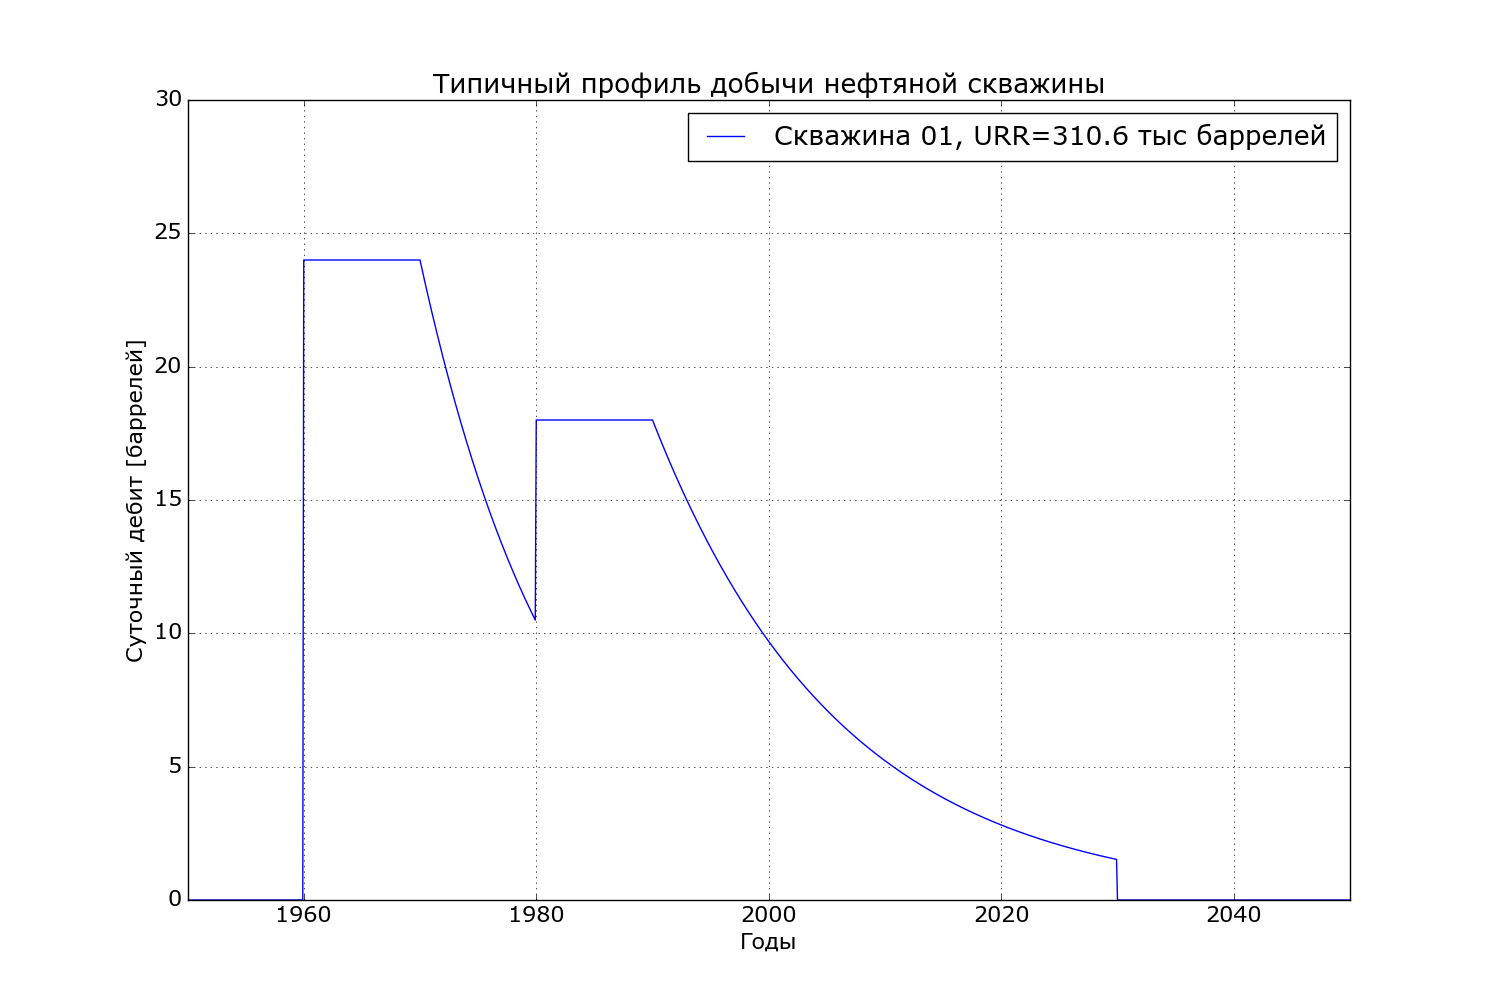
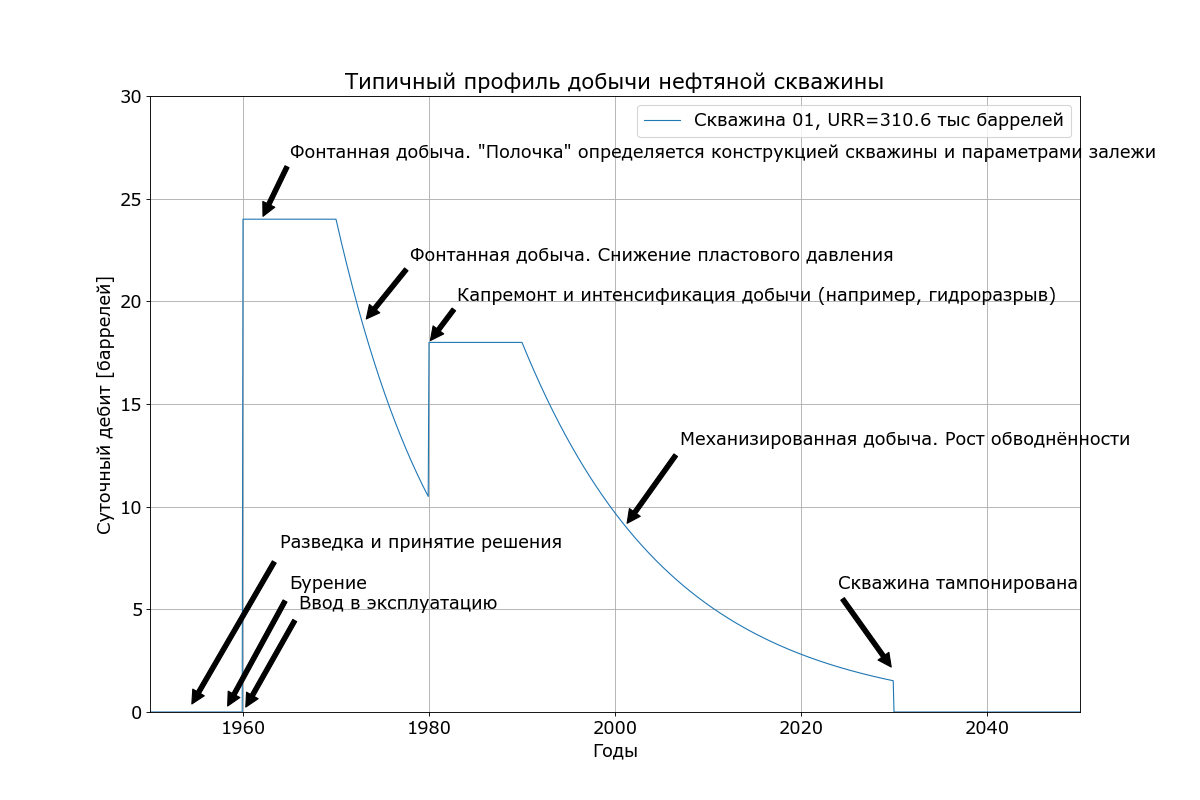
Updated for Matplotlib 2.x

diff --git a/Chapter 08/Test_09_E_Hull_UK_Prediction.py b/Chapter 08/Test_09_E_Hull_UK_Prediction.py
@@ -1,7 +1,7 @@
 from Population import *
 
-Calibration_Year, Calibration_Total = Load_Calibration( "UK_Coal_Production.csv", "Year", "Total")
-Calibration_Total, Calibration_Delta = Load_Calibration( "UK_Coal_Production.csv", "Total", "Delta")
+Calibration_Year, Calibration_Total = Load_Calibration( "./Data/UK_Coal_Production.csv", "Year", "Total")
+Calibration_Total, Calibration_Delta = Load_Calibration( "./Data/UK_Coal_Production.csv", "Total", "Yerr")
 URR0 = np.sum(Calibration_Total)
 dURR = np.sum(Calibration_Delta)
 Prediction_Year = [1830,1860,1880,1900,1920,1940,1960,1980,2000,2020,2034]
@@ -10,21 +10,26 @@ Prediction_Total = [30,72,144,288,576,1152,2304,4608,9216,18432,42979]
 T = np.linspace( 1800, 2100, 301)
 Q1 = Hubbert( 1924,0.043,0.040,280,0).GetVector(T)
 URR1 = np.sum( Q1)
-Q2 = Weibull( total=26500, x0=1810, s=0.0078, k=3.4).GetVector(T)
+Q2 = Weibull( peak=26500, x0=1810, b=0.0078, k=3.4).GetVector(T)
 URR2 = np.sum( Q2)
 
-Prepare_Russian_Font()
 fig = plt.figure( figsize=(15,10))
 plt.plot( Prediction_Year, Prediction_Total, "--", color="r", lw=2, label="Предсказание Эдварда Халла 1861 г: 79'843 млн тонн")
 plt.plot( T, Q1, "-", color="g", lw=2, label="Кривая Хабберта: {:5.0f} млн тонн".format(URR1))
 plt.plot( T, Q2, "-", color="r", lw=2, label="Кривая Вейбулла: {:5.0f} млн тонн".format(URR2))
-plt.errorbar( Calibration_Year, Calibration_Total, yerr=Calibration_Delta, fmt='.', color="b", label="Реальная добыча 1830-2015: {:5.0f} +/- {:5.0f} млн тонн".format(URR0, dURR))
+plt.errorbar( Calibration_Year, Calibration_Total, yerr=Calibration_Delta, fmt='.', color="b", label="Реальная добыча 1830-2016: {:5.0f} +/- {:5.0f} млн тонн".format(URR0, dURR))
 plt.xlabel("Годы")
 plt.xlim( 1800, 2050)
 plt.ylabel("Добыча [миллионов тонн в год]")
 plt.ylim( 0, 600)
 plt.title( "Добыча угля в Великобритании")
 plt.grid(True)
-plt.legend(loc=0)
+plt.legend(loc=2)
+
+plt.annotate("Предсказание Э.Халла, 1861 г", xy=(1861, 75), xytext=(1806,215), arrowprops=dict(facecolor='black', shrink=0.05))
+plt.annotate("Пик добычи 292 млн т в 1913 г", xy=(1913, 292), xytext=(1825,375), arrowprops=dict(facecolor='black', shrink=0.05))
+plt.annotate('Анеурин Беван: "Этот остров стоит на угле и окружён рыбой"', xy=(1945, 186), xytext=(1915,435), arrowprops=dict(facecolor='black', shrink=0.05))
+plt.annotate("Обвал рыболовства в Северном море", xy=(1992, 62), xytext=(1880,65), arrowprops=dict(facecolor='black', shrink=0.05))
+plt.annotate("Прекращена добыча угля", xy=(2016, 2), xytext=(2000,165), arrowprops=dict(facecolor='black', shrink=0.05))
 plt.savefig( ".\\Graphs\\figure_08_09.png")
 fig.show()

diff --git a/Chapter 08/Test_11_Probabilistic_Estimates.py b/Chapter 08/Test_11_Probabilistic_Estimates.py
@@ -1,0 +1,63 @@
+from Population import * 
+
+Time = np.linspace( 1960, 2060, 21)
+T_Report =   [1965, 1970, 1980, 1990, 2000, 2010, 2020, 2030, 2040]
+URR_Proven = [   5,  550, 1120, 1120, 1120, 1190, 1200, 1250, 1250]
+UR_P10 = Sigmoid( 1985, 0.1, 16000, 2200).GetVector( Time)
+UR_P50 = Sigmoid( 1975, 0.5, 3000, 2200).GetVector( Time)
+UR_P90 = Sigmoid( 1973, 0.25, 0, 2200).GetVector( Time)
+TRF_P10 = Sigmoid( 1980, 1.0, 0.65, 0.57).GetVector( Time)
+TRF_P50 = Sigmoid( 1960, 1.0, 0.3,  0.57).GetVector( Time)
+TRF_P90 = Sigmoid( 1965, 1.0, 0.2,  0.57).GetVector( Time)
+URR_P10 = UR_P10 * TRF_P10
+URR_P50 = UR_P50 * TRF_P50
+URR_P90 = UR_P90 * TRF_P90
+ERF_P10 = Sigmoid( 2015, 0.1, 0.65, 0.95).GetVector( Time)
+ERF_P50 = Sigmoid( 2005, 0.5, 0.50,  0.95).GetVector( Time)
+ERF_P90 = Sigmoid( 2010, 0.2, 0.25,  0.95).GetVector( Time)
+ERR_P10 = URR_P10 * ERF_P10
+ERR_P50 = URR_P50 * ERF_P50
+ERR_P90 = URR_P90 * ERF_P90
+
+fig = plt.figure( figsize=(15,15))
+fig.suptitle( 'Вероятностные оценки запасов месторождения Весёлое', fontsize=22)
+gs = plt.GridSpec(3, 1, height_ratios=[1, 1, 1]) 
+ax1 = plt.subplot(gs[0])
+ax2 = plt.subplot(gs[1])
+ax3 = plt.subplot(gs[2])
+
+ax1.set_title( "Начальные геологические запасы")
+ax1.plot( Time, UR_P10, "--", lw=2, color="g", label="P-10/3P (возможные)")
+ax1.plot( Time[1:], UR_P50[1:], "-", lw=3, color="g", label="P-50/2P (вероятные)")
+ax1.plot( Time, UR_P90, "-.", lw=2, color="g", label="P-90/1P (подтверждённые)")
+ax1.grid(True)
+ax1.set_ylabel("млн баррелей")
+ax1.set_xlim( 1960, 2060)
+ax1.set_ylim( 0, 15000)
+ax1.legend(loc=0)
+
+ax2.set_title( "Начальные технически - извлекаемые запасы")
+ax2.plot( Time, URR_P10, "--", lw=2, color="b", label="P-10/3P (возможные)")
+ax2.plot( Time[1:], URR_P50[1:], "-", lw=3, color="b", label="P-50/2P (вероятные)")
+ax2.plot( Time, URR_P90, "-.", lw=2, color="b", label="P-90/1P (подтверждённые)")
+ax2.errorbar( T_Report, URR_Proven, fmt="o", color="m", label="Отчёты SEC/USGS")
+ax2.set_ylabel("млн баррелей")
+ax2.set_xlim( 1960, 2060)
+ax2.set_ylim( 0, 10000)
+ax2.grid(True)
+ax2.legend(loc=0)
+
+ax3.set_title( "Начальные экономически - извлекаемые запасы")
+ax3.plot( Time, ERR_P10, "--", lw=2, color="r", label="P-10/3P (возможные)")
+ax3.plot( Time[1:], ERR_P50[1:], "-", lw=3, color="r", label="P-50/2P (вероятные)")
+ax3.plot( Time, ERR_P90, "-.", lw=2, color="r", label="P-90/1P (подтверждённые)")
+ax3.set_ylabel("млн баррелей")
+ax3.set_xlabel("Годы")
+ax3.set_xlim( 1960, 2060)
+ax3.set_ylim( 0, 7000)
+ax3.grid(True)
+ax3.legend(loc=0)
+
+plt.savefig( ".\\Graphs\\figure_08_11.png")
+fig.show()
+

diff --git a/Chapter 08/Test_10_Hubbert.py b/Chapter 08/Test_10_Hubbert.py
@@ -66,8 +66,8 @@ class Resource_Weibull:
         self.Solution_Q *= norm
         return self.Solution_Q
 
-T_Cal, Coal_Cal = Load_Calibration( "Resources_Calibration.csv", "Year", "Coal")
-Oil_Cal, Gas_Cal = Load_Calibration( "Resources_Calibration.csv", "Oil", "Gas")
+T_Cal, Coal_Cal = Load_Calibration( "Energy_Calibration.csv", "Year", "Coal")
+Oil_Cal, Gas_Cal = Load_Calibration( "Energy_Calibration.csv", "Oil", "Gas")
 Oil_Cal += Coal_Cal
 Gas_Cal += Oil_Cal
 
@@ -82,10 +82,7 @@ Q2_Data = Q2.Solve( T)
 Q3 = Resource_Weibull()
 Q3_Data = Q3.Solve( T)
 
-Prepare_Russian_Font()
 fig = plt.figure( figsize=(15,10))
-#ax = plt.subplot()
-#ax.set_yscale("log", nonposx='clip')
 plt.plot( T, Q0_Data, "-", lw=1, color="r", label="Симметричная кривая Хабберта URR=1.20")
 plt.plot( T, Q3_Data, "-", lw=1, color="g", label="Kривая Вейбулла URR=1.20")
 plt.plot( T, Q1_Data, "-", lw=1, color="b", label="Kривая Гаусса URR=1.20")
@@ -93,11 +90,10 @@ plt.plot( T, Q2_Data, "--", lw=1, color="b", label="Kривая Капицы URR
 plt.errorbar( T_Cal, Coal_Cal, yerr=Coal_Cal*0.01, fmt='.', color="black", label="Кам. уголь (включая торф)")
 plt.errorbar( T_Cal, Oil_Cal, yerr=Oil_Cal*0.01, fmt='.', color="g", label="+ Нефть (включая битум и жидкости)")
 plt.errorbar( T_Cal, Gas_Cal, yerr=Gas_Cal*0.01, fmt='.', color="r", label="+ Природный газ")
-#plt.errorbar( P0.Calibration_Year, P0.Calibration_Total, yerr=P0.Calibration_Delta, fmt='o', color="b", label="Население (статистика ООН)")
 plt.xlabel("Годы")
 plt.xlim( 1800, 2100)
-plt.ylabel("Добыча [миллионов ТУТ в год]")
-#plt.ylim( 0, 20000)
+plt.ylabel("Добыча [миллионов toe в год]")
+plt.ylim( 0, 13000)
 plt.title( 'Аппроксимация мировой добычи углеводородного топлива')
 plt.grid(True)
 plt.legend(loc=0)

diff --git a/Chapter 08/Test_01_Well.py b/Chapter 08/Test_01_Well.py
@@ -30,7 +30,6 @@ T  = np.linspace( 1950, 2050, 1201)
 
 w1 = Well( T, 24, 0.08, 18, 0.06, [1960,1970,1980,1990,2030])
 
-Prepare_Russian_Font()
 fig = plt.figure( figsize=(15,10))
 plt.plot( T, w1.Production, "-", lw=1, label="Скважина 01, URR={:5.1f} тыс баррелей".format( w1.URR))
 plt.xlabel("Годы")
@@ -40,5 +39,13 @@ plt.ylim( 0, 30)
 plt.title( "Типичный профиль добычи нефтяной скважины")
 plt.grid(True)
 plt.legend(loc=0)
+plt.annotate("Разведка и принятие решения", xy=(1954,0), xytext=(1964,8), arrowprops=dict(facecolor='black', shrink=0.05))
+plt.annotate("Бурение", xy=(1958,0), xytext=(1965,6), arrowprops=dict(facecolor='black', shrink=0.05))
+plt.annotate("Ввод в эксплуатацию", xy=(1960,0), xytext=(1966,5), arrowprops=dict(facecolor='black', shrink=0.05))
+plt.annotate('Фонтанная добыча. "Полочка" определяется конструкцией скважины и параметрами залежи', xy=(1962,24), xytext=(1965,27), arrowprops=dict(facecolor='black', shrink=0.05))
+plt.annotate("Фонтанная добыча. Снижение пластового давления", xy=(1973,19), xytext=(1978,22), arrowprops=dict(facecolor='black', shrink=0.05))
+plt.annotate("Капремонт и интенсификация добычи (например, гидроразрыв)", xy=(1980,18), xytext=(1983,20), arrowprops=dict(facecolor='black', shrink=0.05))
+plt.annotate("Механизированная добыча. Рост обводнённости", xy=(2001,9), xytext=(2007,13), arrowprops=dict(facecolor='black', shrink=0.05))
+plt.annotate("Скважина тампонирована", xy=(2030,2), xytext=(2024,6), arrowprops=dict(facecolor='black', shrink=0.05))
 plt.savefig( ".\\Graphs\\figure_08_01.png")
 fig.show()

diff --git a/Chapter 08/Test_08_Creaming.py b/Chapter 08/Test_08_Creaming.py
@@ -58,7 +58,7 @@ for i in range( len( wt)):
     if i > 70: wt[i] += 5
 f = Field( wt, T, 865, 0.10, 800, 0.08, t)
 
-WB = Weibull( x0=1970, total=1200/12, s=0.022, k=1.5)
+WB = Weibull( x0=1970, peak=1200/12, b=0.022, k=1.5)
 WB_Data = WB.GetVector( T)
 WB_URR = np.sum( WB_Data)
 WB_Cumulative = np.array( WB_Data)
@@ -74,10 +74,9 @@ Remaining = Creaming - f.Cumulative/12e6*365.25
 NWells1 = np.linspace( 1,300,301)
 Creaming_Approx = 5 + 280*np.log(NWells1)
 
-Prepare_Russian_Font()
 fig = plt.figure( figsize=(15,10))
 plt.plot( NWells1, Creaming_Approx, "--", color="b", lw=2, label="Аппроксимация -- запасы растут бесконечно")
-plt.errorbar( NWells, URR_Proven, fmt='o', color="b", label="SEC начальные подтверждённые [млн баррелей]")
+plt.errorbar( NWells, URR_Proven, fmt='o', color="b", label="SEC начальные извлекаемые [млн баррелей]")
 plt.xlabel("Количество пробуренных скважин (включая разведочные)")
 plt.xlim( 0, 300)
 plt.ylabel("миллионов баррелей")
@@ -85,5 +84,6 @@ plt.ylim( 0, 2000)
 plt.title( "Месторождение Весёлое - кривая снятия сливок")
 plt.grid(True)
 plt.legend(loc=0)
+plt.annotate("Здесь две точки - из отчётов 2030 и 2040 годов!", xy=(85,1250), xytext=(115,885), arrowprops=dict(facecolor='black', shrink=0.05))
 plt.savefig( ".\\Graphs\\figure_08_08.png")
 fig.show()

diff --git a/Chapter 08/Test_07_Creaming.py b/Chapter 08/Test_07_Creaming.py
@@ -58,7 +58,7 @@ for i in range( len( wt)):
     if i > 70: wt[i] += 5
 f = Field( wt, T, 865, 0.10, 800, 0.08, t)
 
-WB = Weibull( x0=1970, total=1200/12, s=0.022, k=1.5)
+WB = Weibull( x0=1970, peak=1200/12, b=0.022, k=1.5)
 WB_Data = WB.GetVector( T)
 WB_URR = np.sum( WB_Data)
 WB_Cumulative = np.array( WB_Data)
@@ -72,13 +72,12 @@ NWells =     [   1,    6,   51,   53,   60,   70,   80,   85,   85]
 Creaming = Sigmoid( 1965, 0.1, -1250, 1250).GetVector( T)
 Remaining = Creaming - f.Cumulative/12e6*365.25
 
-Prepare_Russian_Font()
 fig = plt.figure( figsize=(15,10))
 plt.plot( T, f.Cumulative/12e6*365.25, "-", color="g", lw=3, label="Накопленная добыча (реальная), URR={:7.1f} млн баррелей".format( f.URR))
 plt.plot( T, WB_Cumulative, "--", color="g", lw=2, label="Накопленная добыча (Вейбулл), URR={:7.1f} млн баррелей".format( WB_URR))
 plt.plot( T, Creaming, "--", color="b", lw=1, label="Аппроксимация подтверждённых запасов")
 plt.plot( T, Remaining, "-", color="r", lw=2, label="Остаточные запасы")
-plt.errorbar( T_Report, URR_Proven, fmt='o', color="b", label="SEC начальные подтверждённые [млн баррелей]")
+plt.errorbar( T_Report, URR_Proven, fmt='o', color="b", label="SEC начальные извлекаемые [млн баррелей]")
 plt.xlabel("Годы")
 plt.xlim( 1960, 2100)
 plt.ylabel("миллионов баррелей")

diff --git a/Chapter 08/Test_06_Field.py b/Chapter 08/Test_06_Field.py
@@ -49,12 +49,11 @@ wt = np.ones( 50) * 1970
 for i in range( len( wt)): wt[i] += i * 0.1
 f = Field( wt, T, 800, 0.10, 800, 0.08, t)
 
-WB = Weibull( x0=1970, s=0.033, k=1.7, total=680/12)
+WB = Weibull( x0=1970, b=0.033, k=1.7, peak=680/12)
 WB_Data = WB.GetVector( T)
 WB_URR = np.sum( WB_Data)
 WB_Data *= 12e6/365.25
 
-Prepare_Russian_Font()
 fig = plt.figure( figsize=(15,10))
 plt.plot( T, f.Production, "-", color="g", lw=3, label="Всего с месторождения, URR={:7.1f} млн баррелей".format( f.URR))
 plt.plot( T, WB_Data, "--", color="g", lw=2, label="Аппроксимация Вейбулла, URR={:7.1f} млн баррелей".format( WB_URR))

diff --git a/Chapter 08/Test_02_Well.py b/Chapter 08/Test_02_Well.py
@@ -35,7 +35,6 @@ Total_Production = w1.Production + w2.Production + w3.Production
 Total_URR = w1.URR + w2.URR + w3.URR
 print( Total_Production[719-120])
 
-Prepare_Russian_Font()
 fig = plt.figure( figsize=(15,10))
 plt.plot( T, w1.Production, "-", color="b", lw=1, label="Скважина 01, URR={:5.1f} тыс баррелей".format( w1.URR))
 plt.plot( T, w2.Production, "--", color="b", lw=1, label="Скважина 02, URR={:5.1f} тыс баррелей".format( w2.URR))

diff --git a/Chapter 08/Test_05_Field.py b/Chapter 08/Test_05_Field.py
@@ -48,7 +48,6 @@ t = np.array( [0,10,18,36,80])
 wt = np.array( [1970.0, 1970.2, 1970.4, 1970.6, 1970.8])
 f = Field( wt, T, 800, 0.10, 600, 0.06, t)
 
-Prepare_Russian_Font()
 fig = plt.figure( figsize=(15,10))
 for i in range( len(f.Wells)):
     w = f.Wells[i]

diff --git a/Chapter 08/Test_03_Well.py b/Chapter 08/Test_03_Well.py
@@ -40,7 +40,6 @@ for w in wells:
     Total_URR += w.URR
 print( Total_Production[719-120])
 
-Prepare_Russian_Font()
 fig = plt.figure( figsize=(15,10))
 for i in range( len(wells)):
     w = wells[i]

diff --git a/Chapter 08/Test_04_Well.py b/Chapter 08/Test_04_Well.py
@@ -36,7 +36,6 @@ for w in wells:
     Total_URR += w.URR
 print( Total_Production[719-120])
 
-Prepare_Russian_Font()
 fig = plt.figure( figsize=(15,10))
 for i in range( len(wells)):
     w = wells[i]
